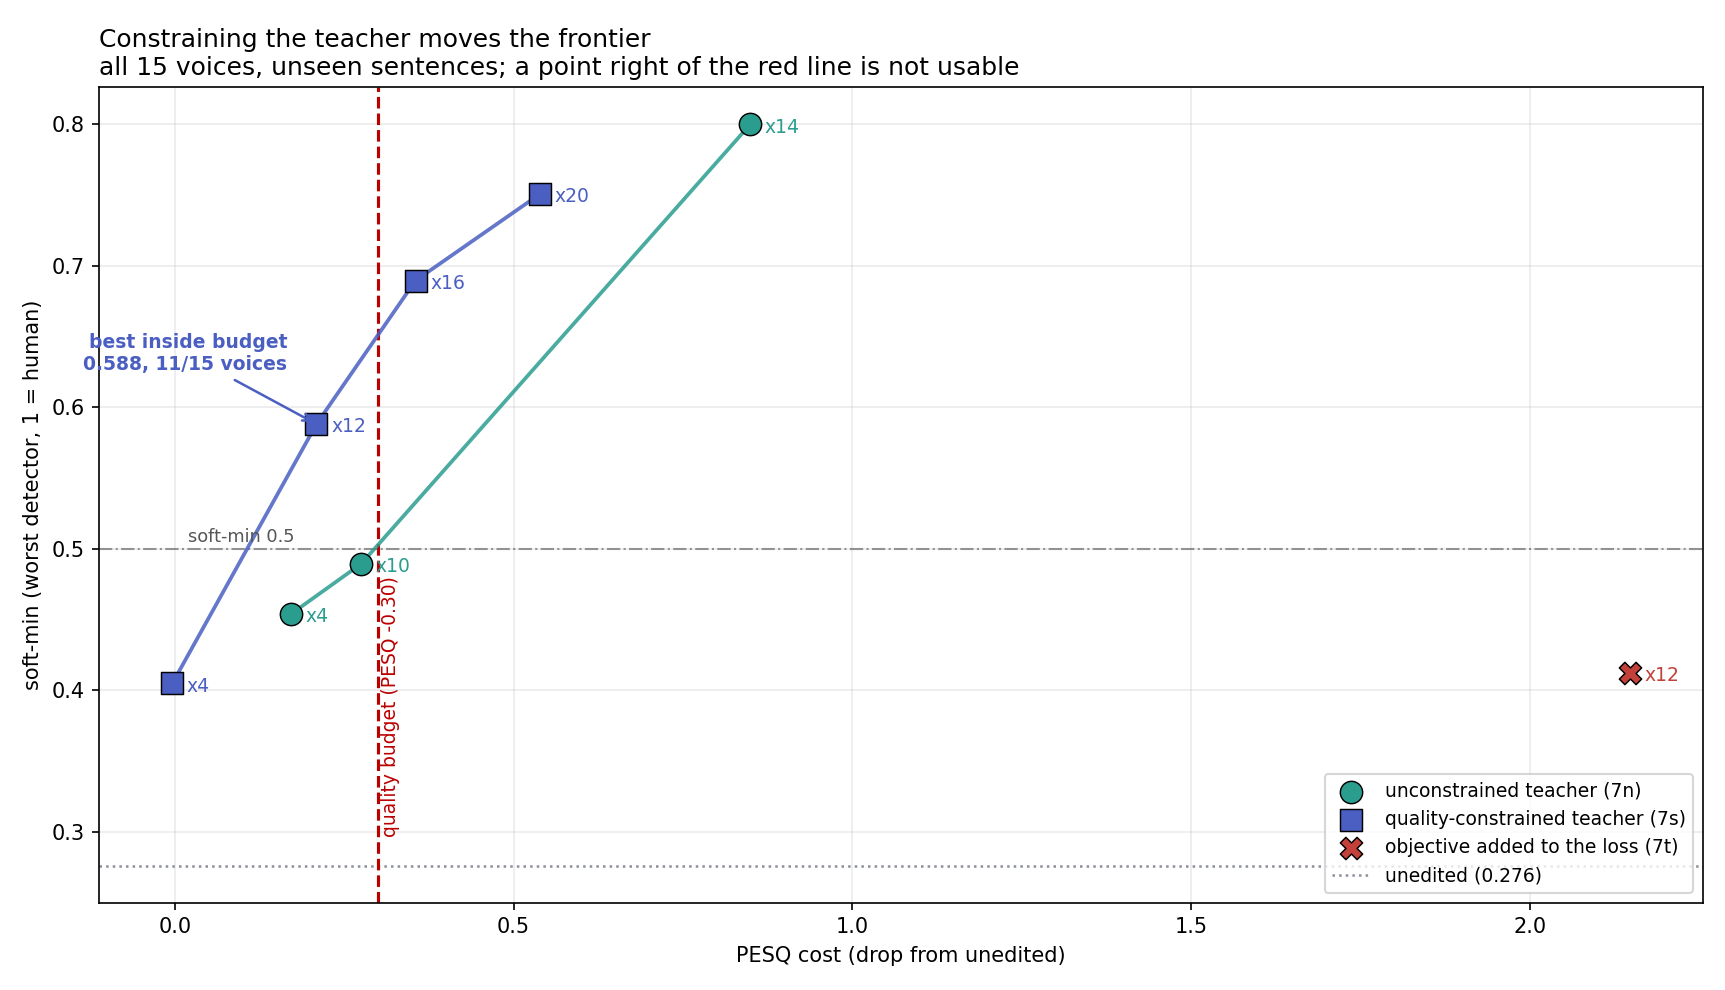
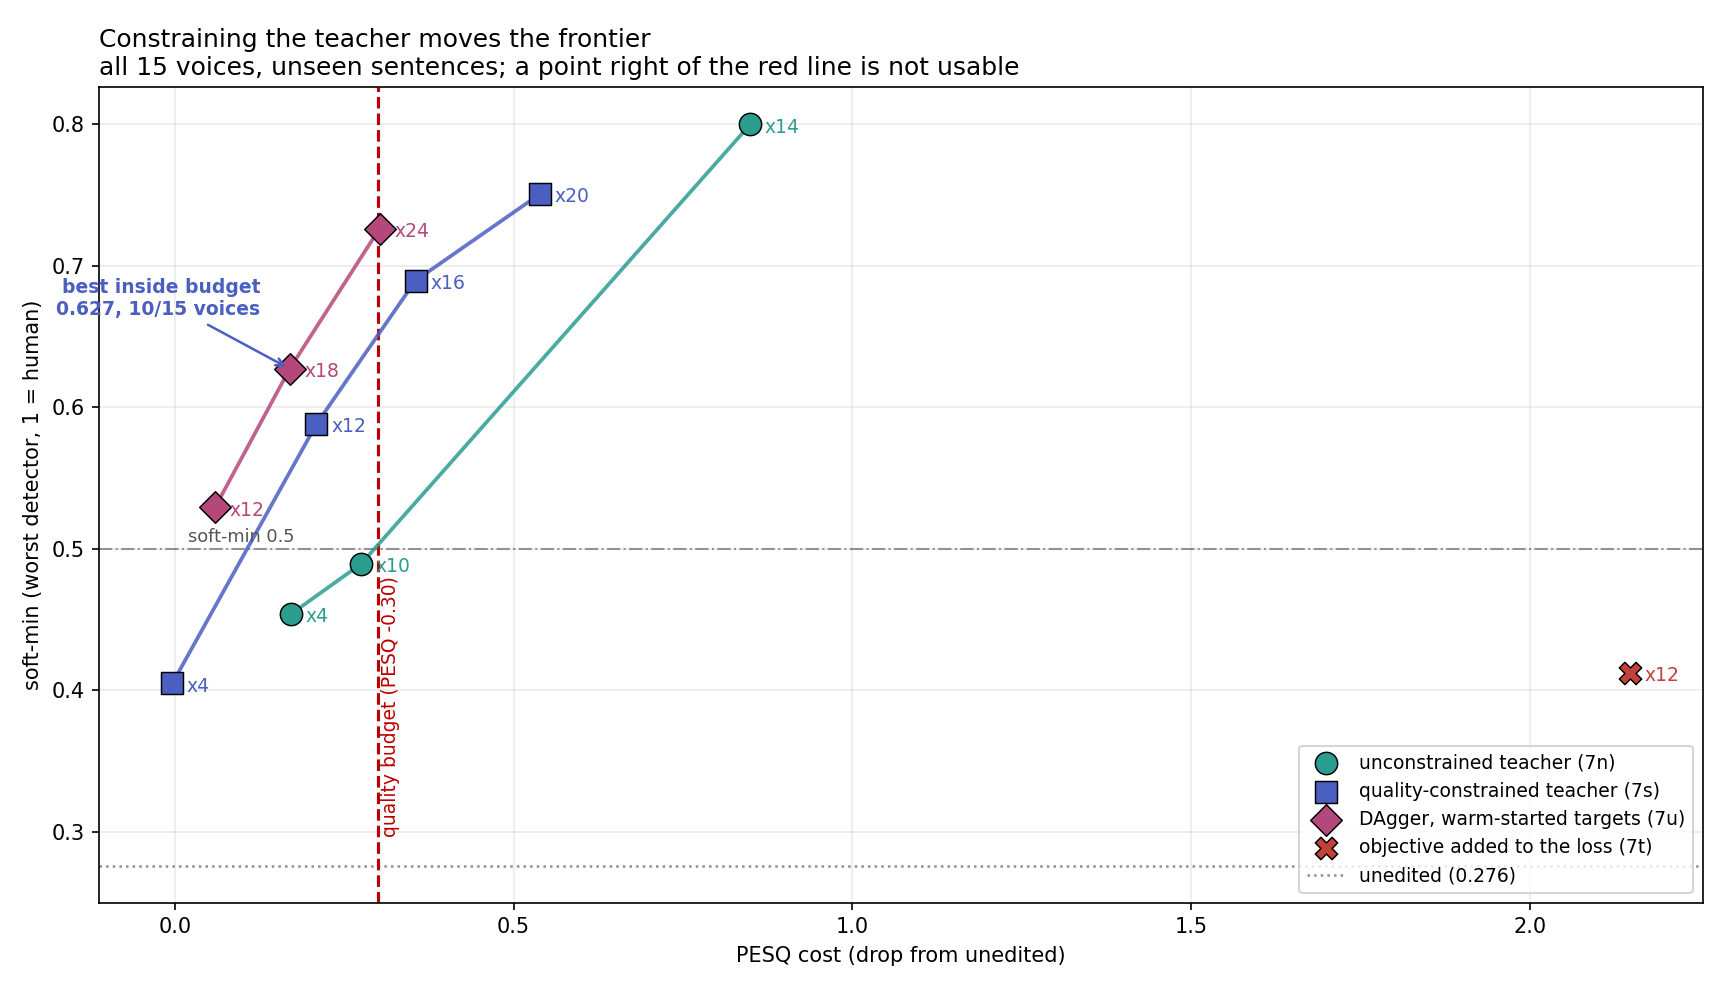
7u: DAgger gives the best configuration in the project
Every target up to here was solved on an UNEDITED mel while the operator runs
12 times at inference, so passes 2 onward ran on states no target covered.
collect_pgd --warm-start applies the trained student first and lets PGD solve
the correction from there, depth cycled over {2,4,8}; 180 warm-started targets
aggregated with the existing 330 (476 of 510 survive filtering).

It did not do what it was meant to. The intent was better aim at the same
pass count; soft-min went DOWN, 0.5292 against 0.5960 at 12 passes. What
improved was cost: -0.060 PESQ against -0.179, with similarity rising above
the unedited clone. Quality efficiency 1.79 -> 4.25, the highest in the
project by a factor of two. Training on already-edited states teaches a
gentler operator, not a better-aimed one -- a warm-started mel is already
most of the way there, so the corrections are small and a corpus of small
corrections teaches small steps.

That leaves the budget unspent, and the pass count is the dial. Sweeping it:
12 -> 0.5292 at -0.060, 18 -> 0.6271 at -0.170, 24 -> 0.7262 at -0.302.

18 passes is the best configuration the project has produced. Paired against
the previous best (qc330 x12) on the same 60 clips: +0.0311 soft-min
(t = 2.57, p = 0.013) at a PESQ cost that is statistically identical
(+0.0088, p = 0.78). Modest but real and free.

Recorded honestly: DAgger x18 has the higher mean yet clears 0.5 on 10 of 15
voices against qc330's 11, so the gain is distributional -- it lifts voices
[…]

diff --git a/verify_claims.py b/verify_claims.py
@@ -124,6 +124,23 @@ def main() -> int:
         claim("7s 330-target soft-min", 0.5960, _mean(c, "new", "softmin"), "7s")
         claim("7s 180-target soft-min", 0.5881, _mean(c, "old", "softmin"), "7s")
 
+    # ---- 7u: DAgger ---------------------------------------------------------
+    dg = _load("all15_dagger_vs_qc330.json")
+    if dg:
+        c = dg["clips"]
+        bp = _mean(c, "baseline", "pesq")
+        claim("7u DAgger x12 soft-min", 0.5292, _mean(c, "new", "softmin"), "7u")
+        claim("7u DAgger x12 d PESQ", -0.060, _mean(c, "new", "pesq") - bp, "7u")
+    sw = _load("all15_dagger24_vs_18.json")
+    if sw:
+        c = sw["clips"]
+        bp = _mean(c, "baseline", "pesq")
+        claim("7u DAgger x18 soft-min", 0.6271, _mean(c, "old", "softmin"), "7u")
+        claim("7u DAgger x18 d PESQ", -0.170, _mean(c, "old", "pesq") - bp, "7u")
+        claim("7u DAgger x24 soft-min", 0.7262, _mean(c, "new", "softmin"), "7u")
+        n = sum(1 for v in sw["per_voice"] if v["old"]["softmin"] >= 0.5)
+        claim("7u DAgger x18 voices >= 0.5", 10, n, "7u", 0.5)
+
     # ---- 7t: the hybrid loss, a failure ------------------------------------
     hy = _load("all15_qcobj_vs_qc.json")
     if hy:

diff --git a/plot_qc_frontier.py b/plot_qc_frontier.py
@@ -40,6 +40,9 @@ POINTS = [
     ("all15_qc20_vs_qc16.json", "old", "constrained", 16, "qc"),
     ("all15_qc20_vs_qc16.json", "new", "constrained", 20, "qc"),
     ("all15_qcobj_vs_qc.json", "new", "hybrid loss", 12, "bad"),
+    ("all15_dagger_vs_qc330.json", "new", "DAgger", 12, "dagger"),
+    ("all15_dagger24_vs_18.json", "old", "DAgger", 18, "dagger"),
+    ("all15_dagger24_vs_18.json", "new", "DAgger", 24, "dagger"),
 ]
 
 
@@ -73,6 +76,7 @@ def main() -> int:
     fig, ax = plt.subplots(figsize=(11.5, 6.6))
     style = {"old": (C_OLD, "o", "unconstrained teacher (7n)"),
              "qc": (C_QC, "s", "quality-constrained teacher (7s)"),
+             "dagger": ("#b5487a", "D", "DAgger, warm-started targets (7u)"),
              "bad": (C_BAD, "X", "objective added to the loss (7t)")}
 
     for series, (colour, marker, legend) in style.items():

diff --git a/Plan_X/RESULTS.md b/Plan_X/RESULTS.md
@@ -1488,6 +1488,80 @@ it. It argues that reversing it without a bound is worse than living with it.
 **The recommended configuration is unchanged by this**: the
 quality-constrained corpus, pure MSE, 12 passes (7s).
 
+### 7u. DAgger: collecting where the operator actually goes
+
+Every target in every corpus up to here was solved on an **unedited** mel.
+The operator is applied 12 times at inference, so passes 2 onward run on mels
+no target ever covered -- textbook covariate shift, and it sits exactly where
+the gains come from, since x12 beats x4 by a wide margin.
+
+`collect_pgd.py --warm-start` applies the trained student first and lets PGD
+solve the correction from there, so the corpus contains the states the
+student will really meet. The pass depth is cycled over {2, 4, 8} across
+examples rather than fixed, so the trajectory is covered rather than one
+point on it. 180 warm-started targets were **aggregated** with the existing
+330 (DAgger aggregates; it does not replace), giving 510, of which 476
+survive filtering.
+
+| | soft-min | d PESQ | similarity | WER | efficiency | >= 0.5 |
+|---|---|---|---|---|---|---|
+| unedited | 0.2764 | -- | 0.819 | 3.6% | -- | 1/15 |
+| qc330 x12 | **0.5960** | -0.179 | 0.814 | 4.8% | 1.79 | **11/15** |
+| DAgger x12 | 0.5292 | **-0.060** | **0.820** | 4.1% | **4.25** | 7/15 |
+
+Paired: soft-min **-0.067 (t = -5.45)**, PESQ **+0.119 (t = 4.23)**,
+similarity **+0.005 (t = 3.18)**. Against unedited, DAgger x12 is +0.253 at
+t = 9.62.
+
+**It did not do what it was meant to do, and did something else instead.** The
+intent was better behaviour on the later passes -- higher soft-min at the same
+pass count. Soft-min went *down*. What improved was cost: at 12 passes the
+edit runs **-0.060 PESQ against -0.179**, roughly a third, with similarity
+rising above the unedited clone. Quality efficiency goes 1.79 -> **4.25**, the
+highest in the project by a factor of two.
+
+The honest reading is that training on already-edited states teaches a
+*gentler* operator rather than a better-aimed one. That makes sense in
+hindsight: a warm-started mel is already most of the way there, so the
+correction PGD solves from it is small, and a corpus of small corrections
+teaches small steps.
+
+**Which leaves the budget unspent**, and the same move as 7s applies -- the
+pass count is the dial, and this operator is cheap enough to turn it much
+further:
+
+| passes | soft-min | d PESQ | similarity | efficiency | >= 0.5 | in budget |
+|---|---|---|---|---|---|---|
+| 12 | 0.5292 | -0.060 | 0.820 | 4.25 | 7/15 | yes |
+| **18** | **0.6271** | **-0.170** | 0.816 | 2.07 | 10/15 | **yes** |
+| 24 | 0.7262 | -0.302 | 0.813 | 1.49 | 13/15 | no, by 0.002 |
+
+**18 passes is the best configuration the project has produced.** Paired
+against the previous best (qc330 at 12 passes) on the same 60 clips:
+
+| | difference | t | p |
+|---|---|---|---|
+| soft-min | **+0.0311** | 2.57 | **0.013** |
+| PESQ | +0.0088 | 0.28 | 0.78 |
+| similarity | +0.0021 | 1.63 | 0.11 |
+| WER | -0.44 pp | -0.68 | 0.50 |
+
+Significantly more evasion at a quality cost that is statistically identical.
+Modest -- +0.031 soft-min -- but real, and free.
+
+**One honest wrinkle.** DAgger x18 has the higher *mean* soft-min yet clears
+0.5 on **10 of 15** voices against qc330's 11. The gain is distributional:
+it lifts voices that were already moving rather than converting a stubborn
+one. If the threshold count is what matters to you rather than the mean, the
+two are a tie and qc330 x12 is the simpler pipeline.
+
+24 passes misses the budget by 0.002 PESQ, which is inside anyone's noise --
+treat it as the boundary rather than as a failure, and note it reaches
+13 of 15 voices.
+
+**So the final recommendation is the DAgger operator at 18 passes**, with
+qc330 at 12 as the simpler alternative that is not meaningfully worse.
+
 ### Honest limits
 
 Current as of 7r. Earlier revisions of this list were scoped to section 7c and
